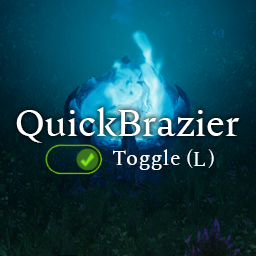
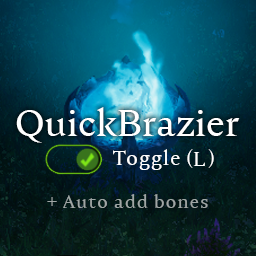
Added auto add bones feature

Changed region(s): [[0.25, 0.75, 0.8125, 0.8125], [0.1875, 0.7812, 0.2188, 0.8125]]

diff --git a/src/Server.cs b/src/Server.cs
@@ -18,6 +18,8 @@ namespace QuickBrazier
             ComponentType.ReadOnly(Il2CppType.Of<Bonfire>())
         };
 
+        private static readonly PrefabGUID BoneGUID = new(1821405450);
+
         private static readonly Dictionary<Entity, DateTime> CooldownTracker = new();
 
         public static void ToggleNearestBrazier(FromCharacter fromCharacter, ToggleBrazierMessage msg)
@@ -32,13 +34,35 @@ namespace QuickBrazier
             {
                 return;
             }
-
+            
             CooldownTracker[fromCharacter.Character] = DateTime.Now;
 
             Entity brazier = FindClosestBrazierInRange(fromCharacter.Character);
             if (brazier != Entity.Null)
             {
-                ToggleBrazier(brazier);
+                ToggleBrazier(brazier, out bool isBurning);
+                if (isBurning)
+                {
+                    AddBonesIfEmpty(fromCharacter, brazier);    
+                }
+            }
+        }
+
+        public static void AddBonesIfEmpty(FromCharacter fromCharacter, Entity brazier)
+        {
+            InventoryUtilities.TryGetInventoryEntity(VWorld.Server.EntityManager, fromCharacter.Character, out Entity playerInventory);
+            InventoryUtilities.TryGetInventoryEntity(VWorld.Server.EntityManager, brazier, out Entity brazierInventory);
+            var gameDataSystem = VWorld.Server.GetExistingSystem<GameDataSystem>();
+
+            int playerBoneCount = InventoryUtilities.ItemCount(VWorld.Server.EntityManager, playerInventory, BoneGUID);
+            int brazierBoneCount = InventoryUtilities.ItemCount(VWorld.Server.EntityManager, brazierInventory, BoneGUID);
+            if (playerBoneCount > 0 && brazierBoneCount == 0)
+            {
+                InventoryUtilities.TryGetItemSlot(VWorld.Server.EntityManager, playerInventory, BoneGUID, out int slotId);
+                InventoryUtilitiesServer.SplitItemStacks(VWorld.Server.EntityManager, gameDataSystem.ItemHashLookupMap,
+                    playerInventory, slotId);
+                InventoryUtilitiesServer.TryMoveItem(VWorld.Server.EntityManager, gameDataSystem.ItemHashLookupMap,
+                    playerInventory, slotId, brazierInventory, out bool moved);
             }
         }
 
@@ -79,11 +103,12 @@ namespace QuickBrazier
             return new Vector3(localToWorld.Position.x, localToWorld.Position.y, localToWorld.Position.z);
         }
 
-        private static void ToggleBrazier(Entity brazier)
+        private static void ToggleBrazier(Entity brazier, out bool isBurning)
         {
             var brazierComponentData = VWorld.Server.EntityManager.GetComponentData<BurnContainer>(brazier);
             brazierComponentData.Enabled = !brazierComponentData.Enabled;
             VWorld.Server.EntityManager.SetComponentData(brazier, brazierComponentData);
+            isBurning = brazierComponentData.Enabled;
         }
     }
 }

diff --git a/src/Client.cs b/src/Client.cs
@@ -41,7 +41,6 @@ namespace QuickBrazier
                  Input.GetKeyInt(configKeybinding.Secondary)) &&
                 DateTime.Now - _lastInventoryTransfer > TimeSpan.FromSeconds(0.25))
             {
-                Plugin.Debug("BRAZIER");
                 _lastInventoryTransfer = DateTime.Now;
                 ToggleBrazier();
             }

diff --git a/README.md b/README.md
@@ -4,3 +4,7 @@
 * [ServerLaunchFix](https://v-rising.thunderstore.io/package/Mythic/ServerLaunchFix/) recommended for in-game hosted games
 
 More info on the way
+
+## Possible upcoming features
+* Auto add bones from inventory if brazier is empty
+* Auto turn on when day starts, and off when night starts
